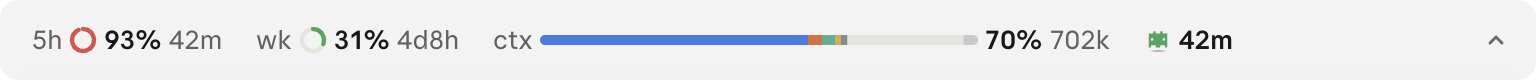
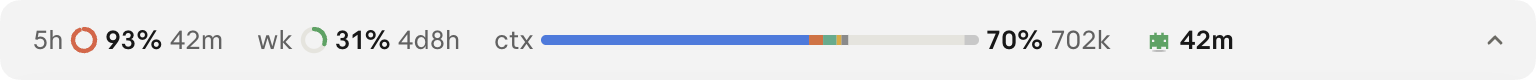
Ramp: green to 75%, red at 95%; retake README images

diff --git a/hooks/colour.ts b/hooks/colour.ts
@@ -10,11 +10,11 @@ import type { Warmth } from './format.ts'
 export type Shade = { light: string; dark: string }
 
 const STOPS: { at: number; light: string; dark: string }[] = [
-  { at: 60, light: '#34a560', dark: '#5cb87a' }, // green
-  { at: 70, light: '#e8b100', dark: '#d9c84a' }, // yellow
-  { at: 80, light: '#f2a503', dark: '#e2a93b' }, // amber
-  { at: 85, light: '#f47230', dark: '#e0814f' }, // orange
-  { at: 90, light: '#e5484d', dark: '#ec6d66' }, // red
+  { at: 75, light: '#34a560', dark: '#5cb87a' }, // green
+  { at: 80, light: '#e8b100', dark: '#d9c84a' }, // yellow
+  { at: 85, light: '#f2a503', dark: '#e2a93b' }, // amber
+  { at: 90, light: '#f47230', dark: '#e0814f' }, // orange
+  { at: 95, light: '#e5484d', dark: '#ec6d66' }, // red
 ]
 
 const COLD: Shade = { light: '#2f6f95', dark: '#74b3cc' }
@@ -105,8 +105,8 @@ export const textOf = (shade: Shade) => `light-dark(${deepen(shade.light)}, ${sh
 
 /** The cache's colours: green while warm, orange in its last 10 minutes, red in its last 5, then blue. */
 export const warmthShade = (w: Warmth): Shade =>
-  w === 'cold' ? COLD : ringOf(w === 'ok' ? 0 : w === 'hi' ? 85 : 100)
+  w === 'cold' ? COLD : ringOf(w === 'ok' ? 0 : w === 'hi' ? 90 : 100)
 
 /** The terminal draws no blended colours: theme keys in four steps. */
 export const termKey = (percent: number) =>
-  percent >= 90 ? 'error' : percent >= 85 ? 'claude' : percent >= 70 ? 'warning' : 'success'
+  percent >= 95 ? 'error' : percent >= 90 ? 'claude' : percent >= 80 ? 'warning' : 'success'

diff --git a/DESIGN.md b/DESIGN.md
@@ -9,7 +9,7 @@ Why the band looks and behaves as it does, and what the Claude Code desktop app 
 - Rings (14 px drawings), a bold percent, then the time left (always) or the context tokens, faint.
 - Context is a small copy of the card's bar while the band is at least 56 cells wide (`bodyColumns`), so it reads apart from the two limits at a glance. The row then stays on one line and only the bar gives way as the window narrows, from 26 cells down; below 56 it becomes a ring like the others and the row wraps. The spacing is the row's `columnGap`, not margins (the app squeezes margins), and only the bar and its row take `minWidth={0}`, since a box never shrinks below its content without it.
 - Order: 5-hour, weekly, context, cache. Context is measured against the full window; the auto-compact point is in the card.
-- Colour (`hooks/colour.ts`): green to 60%, then a smooth OKLCH blend through yellow (70), amber (80) and orange (85) to red at 90%. Light-mode rings are bright (the app's own `#F2A503` and `#F47230` among them); dark mode uses softer shades of the same hues.
+- Colour (`hooks/colour.ts`): green to 75%, then a smooth OKLCH blend through yellow (80), amber (85) and orange (90) to red at 95%. Light-mode rings are bright (the app's own `#F2A503` and `#F47230` among them); dark mode uses softer shades of the same hues.
 - Cache: a bobbing, blinking robot, green while warm, orange in the last 10 minutes, red in the last 5, then a still blue robot with a turning snowflake. The cache is assumed to live an hour from the last main-thread request.
 - Times: `4h53m`, `53m`, `4d2h`.
 - Narrow windows: once context is a ring, whole figures wrap to a second line; the chevron stays right.
